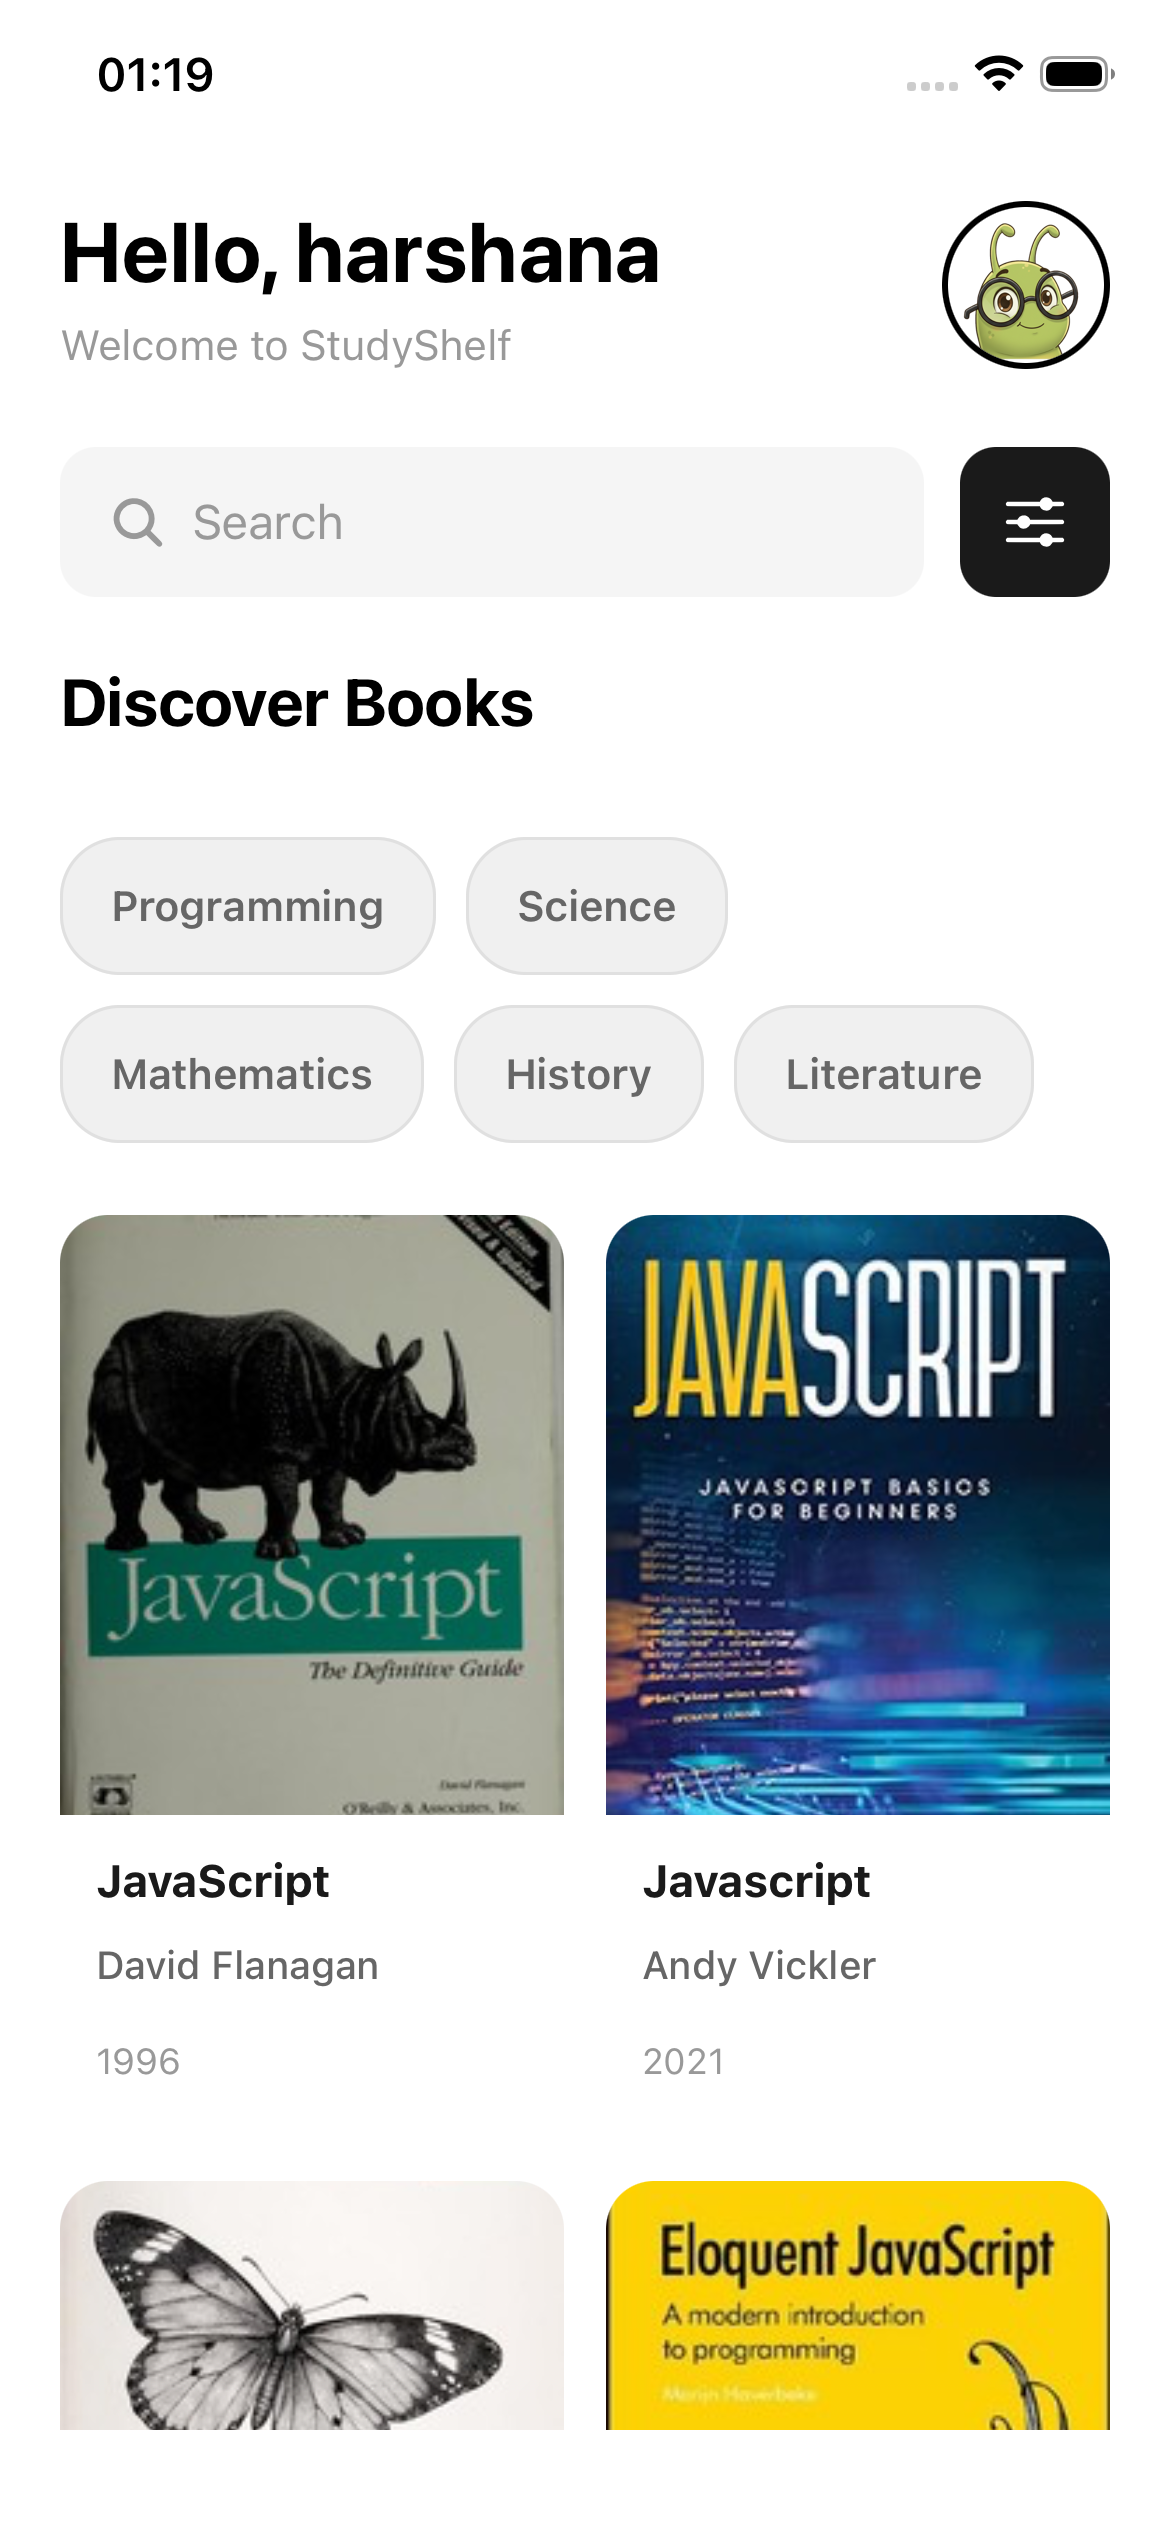
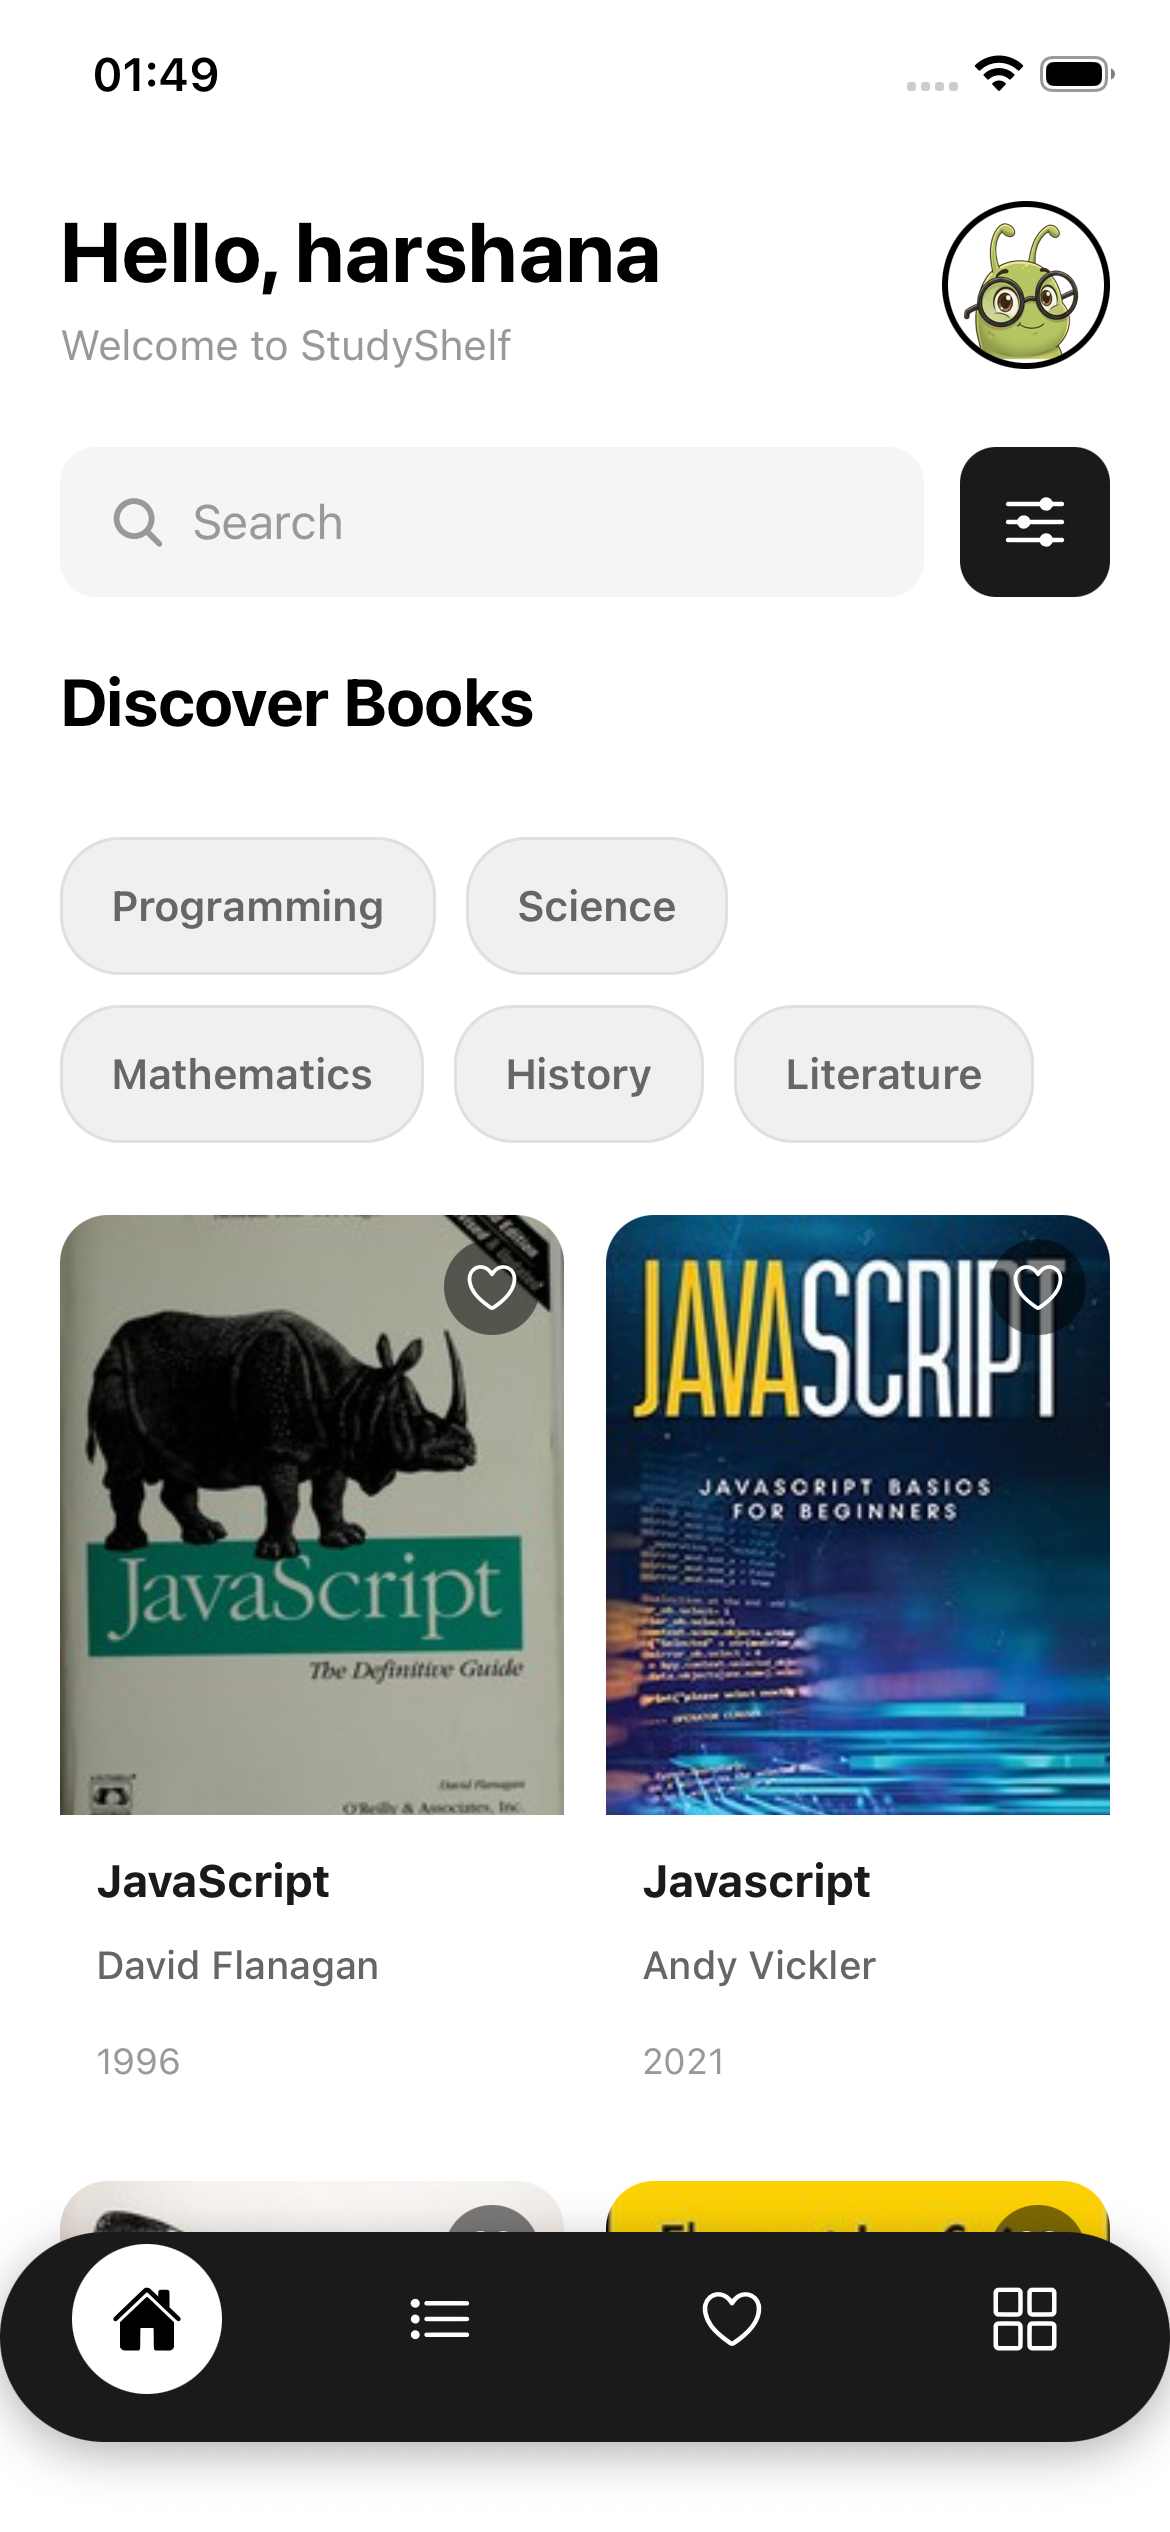
feat(navigation): Implement bottom navigation with enhanced tab layout
- Refactor app navigation from Stack to Tabs component
- Add custom bottom navigation bar with dark theme and icon styling
- Create new explore screen as a placeholder for future functionality
- Remove manual BottomNav component from individual screens
- Update README with new screenshots including book details and favorites page
- Adjust tab layout with focused and unfocused icon states
- Improve overall navigation user experience and visual design

diff --git a/app/(tabs)/_layout.tsx b/app/(tabs)/_layout.tsx
@@ -1,37 +1,102 @@
-import { Stack, useRouter } from 'expo-router';
-import { StyleSheet } from 'react-native';
+import { Ionicons } from '@expo/vector-icons';
+import { Tabs } from 'expo-router';
+import { StyleSheet, View } from 'react-native';
 
 export default function TabLayout() {
-  const router = useRouter();
-
   return (
-    <Stack>
-      <Stack.Screen 
+    <Tabs
+      screenOptions={{
+        headerShown: false,
+        tabBarStyle: {
+          position: 'absolute',
+          bottom: 30,
+          left: 40,
+          right: 40,
+          backgroundColor: '#1a1a1a',
+          borderRadius: 40,
+          height: 70,
+          paddingBottom: 10,
+          paddingTop: 10,
+          borderTopWidth: 0,
+          elevation: 8,
+          shadowColor: '#000',
+          shadowOffset: { width: 0, height: 4 },
+          shadowOpacity: 0.3,
+          shadowRadius: 8,
+        },
+        tabBarActiveTintColor: '#000',
+        tabBarInactiveTintColor: '#fff',
+        tabBarShowLabel: false,
+        tabBarItemStyle: {
+          borderRadius: 25,
+          marginHorizontal: 2,
+          backgroundColor: 'transparent',
+        },
+      }}
+    >
+      <Tabs.Screen
         name="index"
         options={{
-          headerShown: false,
+          tabBarIcon: ({ color, focused }) => (
+            <View style={focused ? styles.activeIconContainer : styles.iconContainer}>
+              <Ionicons name={focused ? 'home' : 'home-outline'} size={24} color={color} />
+            </View>
+          ),
         }}
       />
-      <Stack.Screen 
-        name="profile" 
+      <Tabs.Screen
+        name="explore"
         options={{
-          headerShown: false,
+          tabBarIcon: ({ color, focused }) => (
+            <View style={focused ? styles.activeIconContainer : styles.iconContainer}>
+              <Ionicons name="list-outline" size={24} color={color} />
+            </View>
+          ),
         }}
       />
-      <Stack.Screen 
-        name="favorites" 
+      <Tabs.Screen
+        name="favorites"
         options={{
-          headerShown: false,
+          tabBarIcon: ({ color, focused }) => (
+            <View style={focused ? styles.activeIconContainer : styles.iconContainer}>
+              <Ionicons name="heart-outline" size={24} color={color} />
+            </View>
+          ),
         }}
       />
-      <Stack.Screen 
-        name="book-details" 
+      <Tabs.Screen
+        name="profile"
         options={{
-          headerShown: false,
+          tabBarIcon: ({ color, focused }) => (
+            <View style={focused ? styles.activeIconContainer : styles.iconContainer}>
+              <Ionicons name="grid-outline" size={24} color={color} />
+            </View>
+          ),
         }}
       />
-    </Stack>
+      <Tabs.Screen
+        name="book-details"
+        options={{
+          href: null,
+        }}
+      />
+    </Tabs>
   );
 }
 
-const styles = StyleSheet.create({});
+const styles = StyleSheet.create({
+  iconContainer: {
+    width: 50,
+    height: 50,
+    justifyContent: 'center',
+    alignItems: 'center',
+  },
+  activeIconContainer: {
+    width: 50,
+    height: 50,
+    justifyContent: 'center',
+    alignItems: 'center',
+    backgroundColor: '#fff',
+    borderRadius: 25,
+  },
+});

diff --git a/app/(tabs)/explore.tsx b/app/(tabs)/explore.tsx
@@ -1,0 +1,37 @@
+import { ThemedText } from '@/components/themed-text';
+import { SafeAreaView, StatusBar, StyleSheet, View } from 'react-native';
+
+export default function ExploreScreen() {
+  return (
+    <SafeAreaView style={styles.container}>
+      <StatusBar barStyle="dark-content" />
+      <View style={styles.content}>
+        <ThemedText style={styles.title}>Explore</ThemedText>
+        <ThemedText style={styles.subtitle}>Coming soon...</ThemedText>
+      </View>
+    </SafeAreaView>
+  );
+}
+
+const styles = StyleSheet.create({
+  container: {
+    flex: 1,
+    backgroundColor: '#fff',
+  },
+  content: {
+    flex: 1,
+    justifyContent: 'center',
+    alignItems: 'center',
+    paddingBottom: 100,
+  },
+  title: {
+    fontSize: 28,
+    fontWeight: 'bold',
+    color: '#000',
+    marginBottom: 8,
+  },
+  subtitle: {
+    fontSize: 16,
+    color: '#999',
+  },
+});

diff --git a/app/(tabs)/index.tsx b/app/(tabs)/index.tsx
@@ -1,4 +1,3 @@
-import BottomNav from '@/components/bottom-nav';
 import { ThemedText } from '@/components/themed-text';
 import { ThemedView } from '@/components/themed-view';
 import { AppImages } from '@/constants/app-images';
@@ -256,7 +255,6 @@ export default function HomeScreen() {
         refreshControl={<RefreshControl refreshing={refreshing} onRefresh={onRefresh} />}
         showsVerticalScrollIndicator={false}
       />
-      <BottomNav />
     </SafeAreaView>
   );
 }

diff --git a/app/(tabs)/favorites.tsx b/app/(tabs)/favorites.tsx
@@ -1,4 +1,4 @@
-import BottomNav from '@/components/bottom-nav';
+
 import { ThemedText } from '@/components/themed-text';
 import { useAppSelector } from '@/store/hooks';
 import { Book } from '@/types/book';
@@ -88,7 +88,6 @@ export default function FavoritesScreen() {
           showsVerticalScrollIndicator={false}
         />
       </View>
-      <BottomNav />
     </SafeAreaView>
   );
 }

diff --git a/app/(tabs)/profile.tsx b/app/(tabs)/profile.tsx
@@ -1,4 +1,3 @@
-import BottomNav from '@/components/bottom-nav';
 import { ThemedText } from '@/components/themed-text';
 import { AppImages } from '@/constants/app-images';
 import { logout } from '@/store/auth-slice';
@@ -51,7 +50,6 @@ export default function ProfileScreen() {
           </TouchableOpacity>
         </View>
       </View>
-      <BottomNav />
     </SafeAreaView>
   );
 }

diff --git a/README.md b/README.md
@@ -23,4 +23,14 @@ StudyShelf is a mobile app designed to help university and school students easil
     <td align="center">Register Screen</td>
     <td align="center">Home Screen</td>
   </tr>
+  <tr>
+    <td><img src="screenshots/bookdetail.png" alt="Book Details" width="250"/></td>
+    <td><img src="screenshots/favpage.png" alt="Favorites Page" width="250"/></td>
+    <td></td>
+  </tr>
+  <tr>
+    <td align="center">Book Details</td>
+    <td align="center">Favorites Page</td>
+    <td></td>
+  </tr>
 </table>
